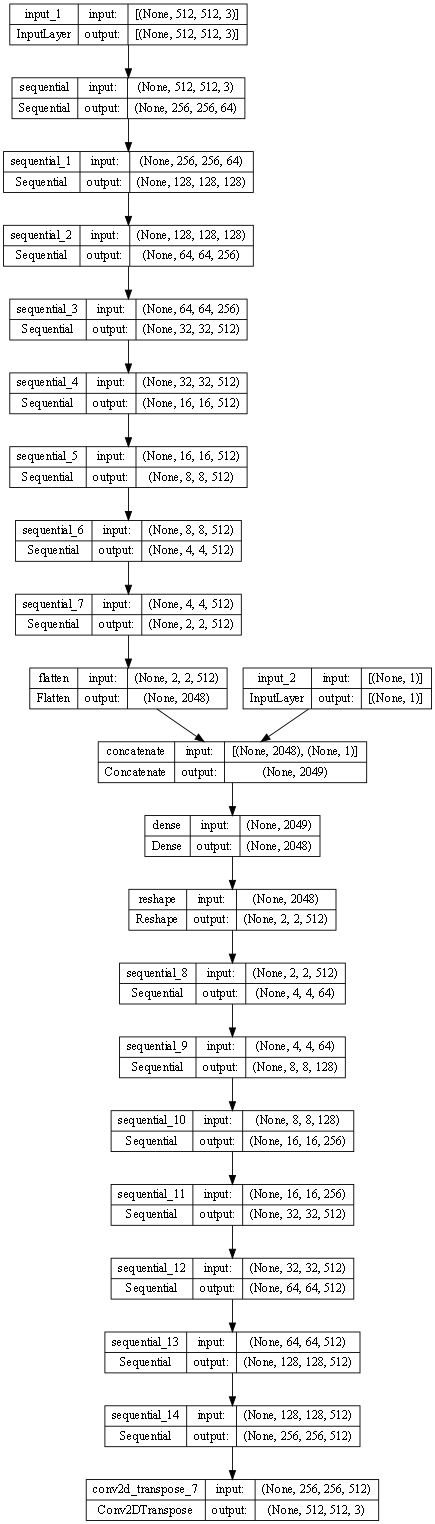
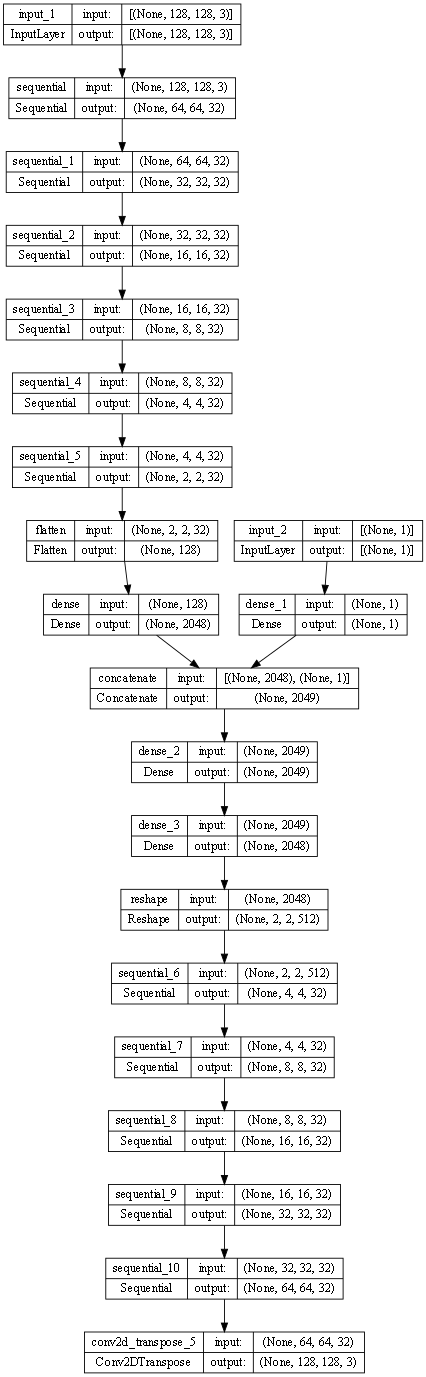
main model converted back to concatenated branches

Changed region(s): [[0.0, 0.0, 1.0, 0.9993]]

diff --git a/oscillation-model.py b/oscillation-model.py
@@ -3,18 +3,27 @@ import tensorflow as tf
 from keras.layers import Input, Dense, Conv2D, Reshape, Dropout, Conv2DTranspose, BatchNormalization, LeakyReLU, ReLU, Flatten, Concatenate
 from keras.activations import relu, leaky_relu
 
+
 TARGET_SHAPE = (128,128,3,)
 SHUFFLE_BUFFER = 500
-BATCH_SIZE = 128
+BATCH_SIZE = 2
+EPOCHS = 3
 
 data_path = r'E:\DATA\View Oscillation 2\128.npz'
 
 
 def generator(path):
     with np.load(path) as data:
-        x0,x1,y0 = data['x0'],data['x1'],data['y0']
-        for x_0,x_1,y_0 in zip(x0,x1,y0):
-            yield {"input_1":x_0, "input_2": x_1}, y_0
+        x0,y0 = data['x0'],data['y0']
+        x0 = np.expand_dims(x0,axis=0)
+        y0 = np.expand_dims(y0,axis=0)
+        #print(len(x0),len(x1),len(y0))
+        #s=input('...')
+        for x_0,y_0 in zip(x0,y0):
+            #print(x_0.shape,x_1.shape,y_0.shape)
+            #print(x_1)
+            #s=input('...')
+            yield x_0, y_0
 
 
 def get_dataset():
@@ -30,10 +39,12 @@ def get_dataset():
     return train_dataset,test_dataset
 
 
+
+'''
 def load_data():
     with np.load(data_path) as data:
         x0,x1,y0 = data['x0'],data['x1'],data['y0']
-    full_dataset = tf.data.Dataset.from_tensor_slices(([x0,x1], y0))
+    #full_dataset = tf.data.Dataset.from_tensor_slices({"input_1":x0, "input_2": x1}, "label":y0)
 
     full_dataset = full_dataset.shuffle(1000)
     
@@ -44,7 +55,7 @@ def load_data():
     test_dataset = test_dataset.batch(BATCH_SIZE)
     
     return train_dataset, test_dataset
-
+'''
 
 def downsample(filters, size, apply_batchnorm=True):
     initializer = tf.random_normal_initializer(0., 0.02)
@@ -81,51 +92,58 @@ def upsample(filters, size, apply_dropout=False):
     return result
 
 
-def get_model_full():
-    input0 = Input(shape=TARGET_SHAPE)
-    input1 = Input(shape=(1,))
+def get_branch0():
+    input0 = Input(shape=(128,128,3,))
 
-    down_stack = [downsample(64,4,apply_batchnorm=False),
-                    downsample(128,4),
-                    downsample(256,4),
-                    downsample(512,4),
-                    downsample(512,4),
-                    downsample(512,4)]
+    down_stack = [downsample(32,4,apply_batchnorm=False),
+                    downsample(32,4),
+                    downsample(32,4),
+                    downsample(32,4),
+                    downsample(32,4),
+                    downsample(32,4)]
                     #downsample(512,4),
                     #downsample(512,4)]
 
-    up_stack = [upsample(64,4, apply_dropout=True),
-                    upsample(128,4, apply_dropout=True),
-                    upsample(256,4, apply_dropout=True),
-                    upsample(512,4),
-                    upsample(512,4)]
-                    #upsample(512,4),
-                    #upsample(512,4)]
-
     x = input0
-    
-    #skips = []
 
     for down in down_stack:
         x = down(x)
-        #skips.append(x)
-
-    #x = Concatenate()([x,input1])
-
+    
     x = Flatten()(x)
-    x = Concatenate()([x,input1])
     x = Dense(2048)(x)
-    x = Reshape(target_shape=(2,2,512))(x)
 
-    #skips = reversed(skips[:-1])
+    model = tf.keras.models.Model(input0,x)
+    return model
 
+def get_branch1():
+    input1 = Input(shape=(1,))
+    x = input1
+    x = Dense(1)(x)
+    model = tf.keras.models.Model(input1,x)
+    return model
+
+
+def get_model_full():
+
+    branch0 = get_branch0()
+    branch1 = get_branch1()
+    combined_branches = Concatenate()([branch0.output,branch1.output])
+    x = Dense(2049)(combined_branches)
+    x = Dense(2048)(x)
+    x = Reshape((2,2,512,))(x)
+    
+    
+    up_stack = [upsample(32,4, apply_dropout=True),
+                    upsample(32,4, apply_dropout=True),
+                    upsample(32,4, apply_dropout=True),
+                    upsample(32,4),
+                    upsample(32,4)]
+                    #upsample(512,4),
+                    #upsample(512,4)]
+    
+    
     for up in up_stack:
         x = up(x)
-        #x = Concatenate()([x,skip])
-
-    #for up, skip in zip(up_stack,skips):
-        #x = up(x)
-        #x = Concatenate()([x,skip])
 
     initializer = tf.random_normal_initializer(0., 0.02)
 
@@ -138,7 +156,7 @@ def get_model_full():
 
     
 
-    return tf.keras.Model(inputs=[input0,input1],outputs=x)
+    return tf.keras.Model(inputs=[branch0.input,branch1.input],outputs=x)
 
 
 def save_graph(model):
@@ -158,6 +176,7 @@ if __name__ == '__main__':
     model = get_model_full()
     save_graph(model)
     model.compile(optimizer='adam', loss=tf.keras.losses.MeanSquaredError(), metrics=['mean_squared_error'])
-    train_dataset,test_dataset = load_data()
-    model.fit(generator(data_path),epochs=4)
+    #train_dataset,test_dataset = load_data()
+    #model.fit(train_dataset, validation_data = test_dataset, epochs=EPOCHS)
+    #model.fit(generator(data_path),epochs=4)
 
